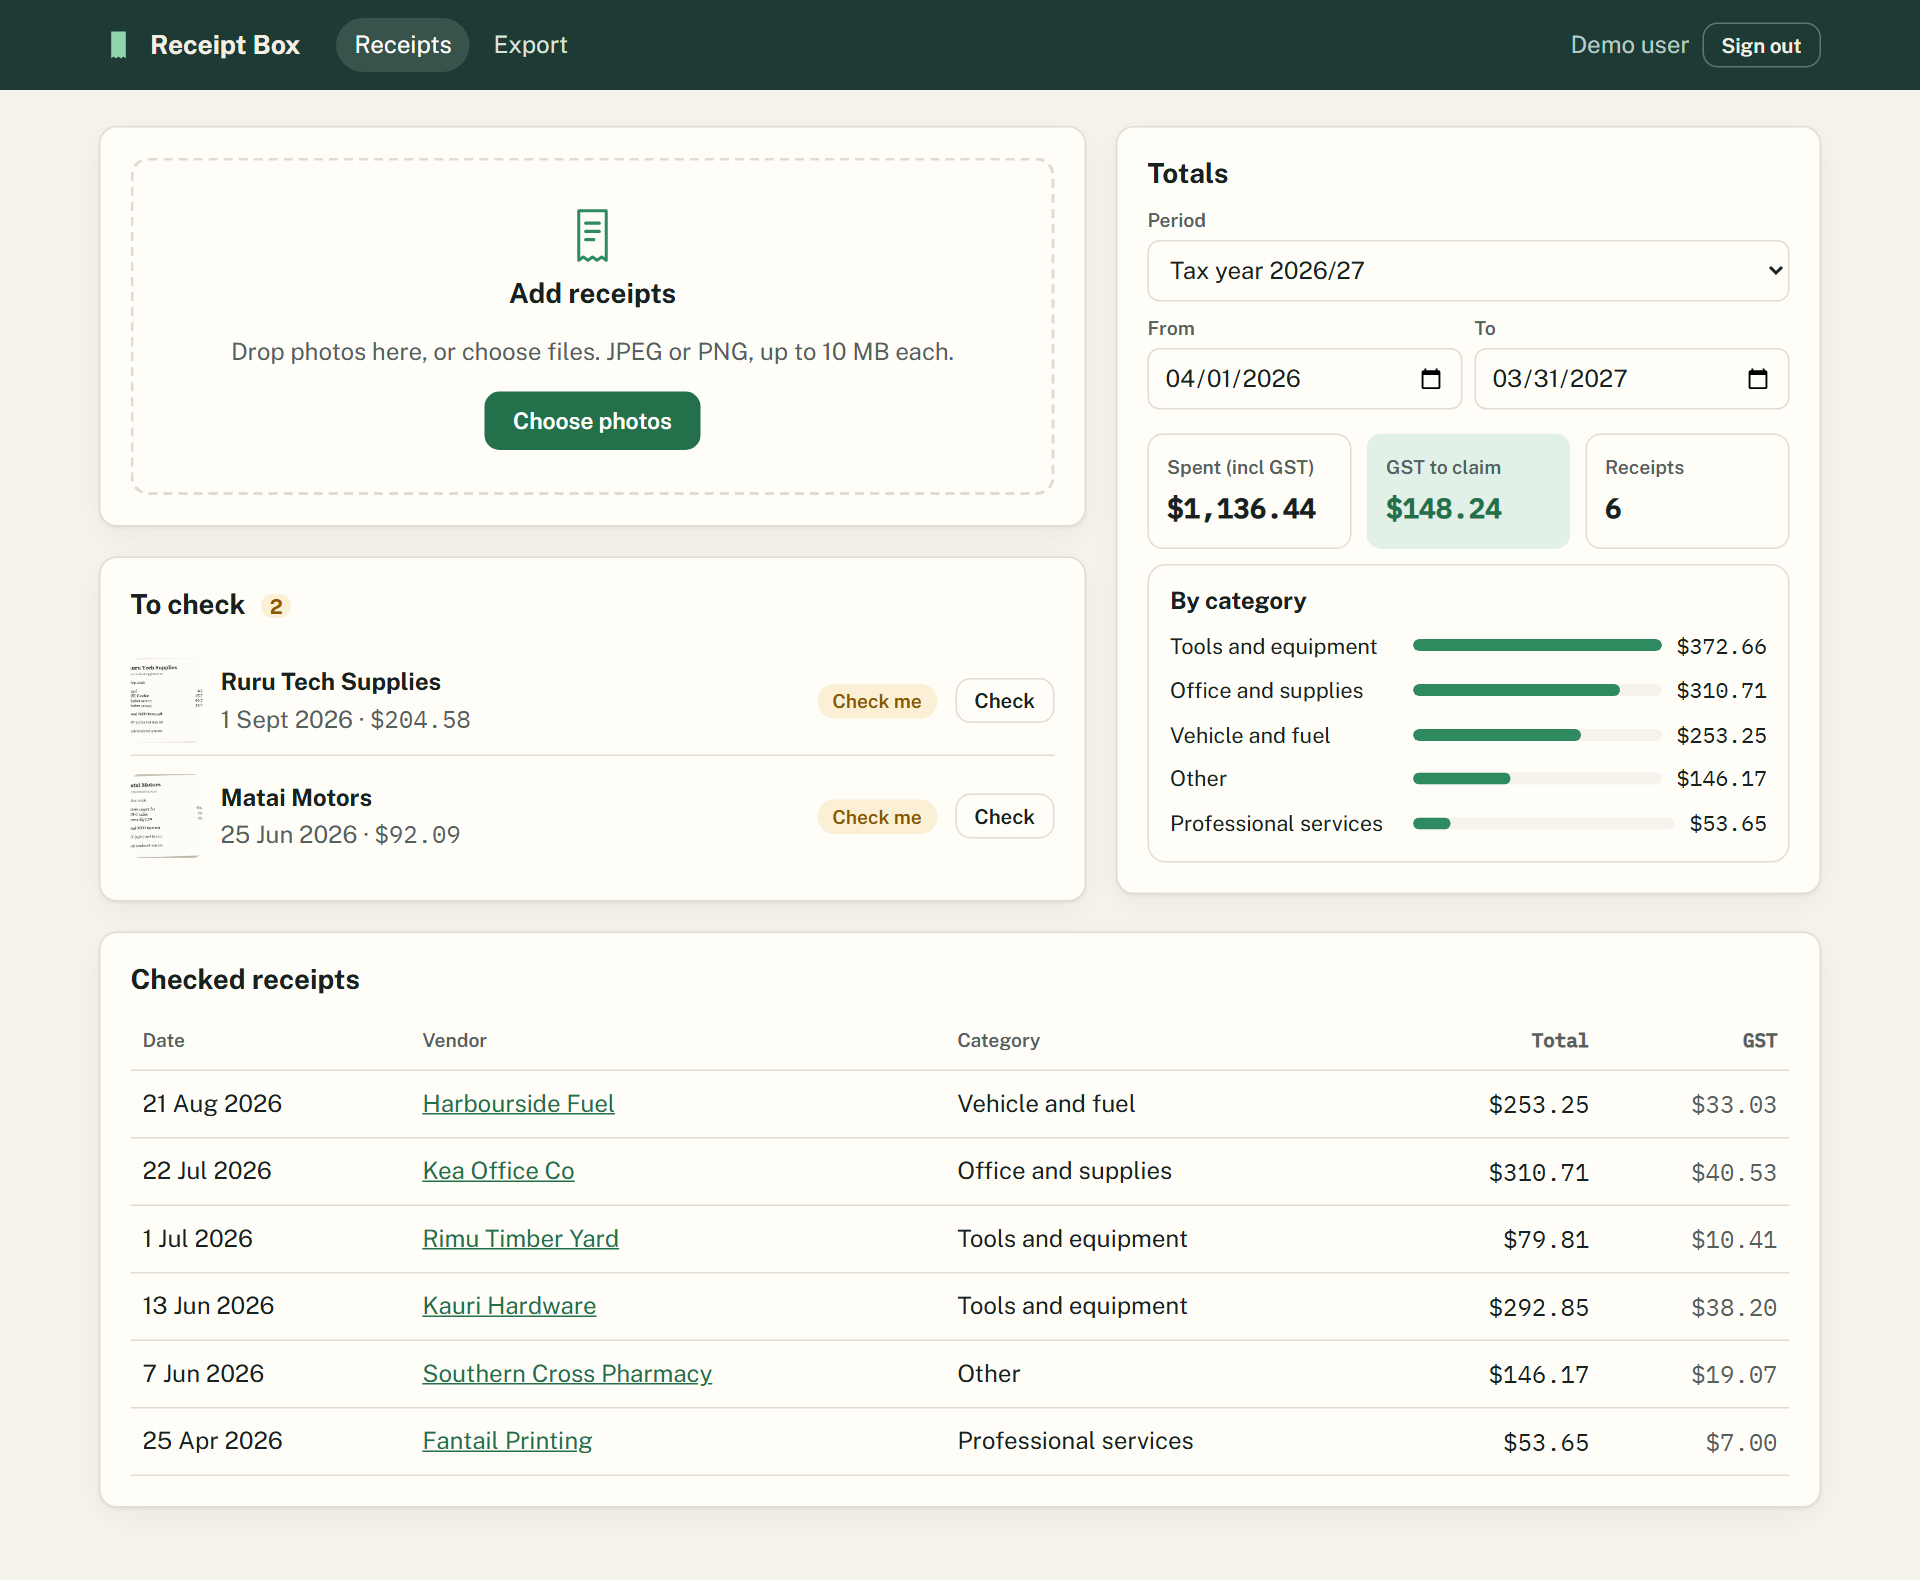
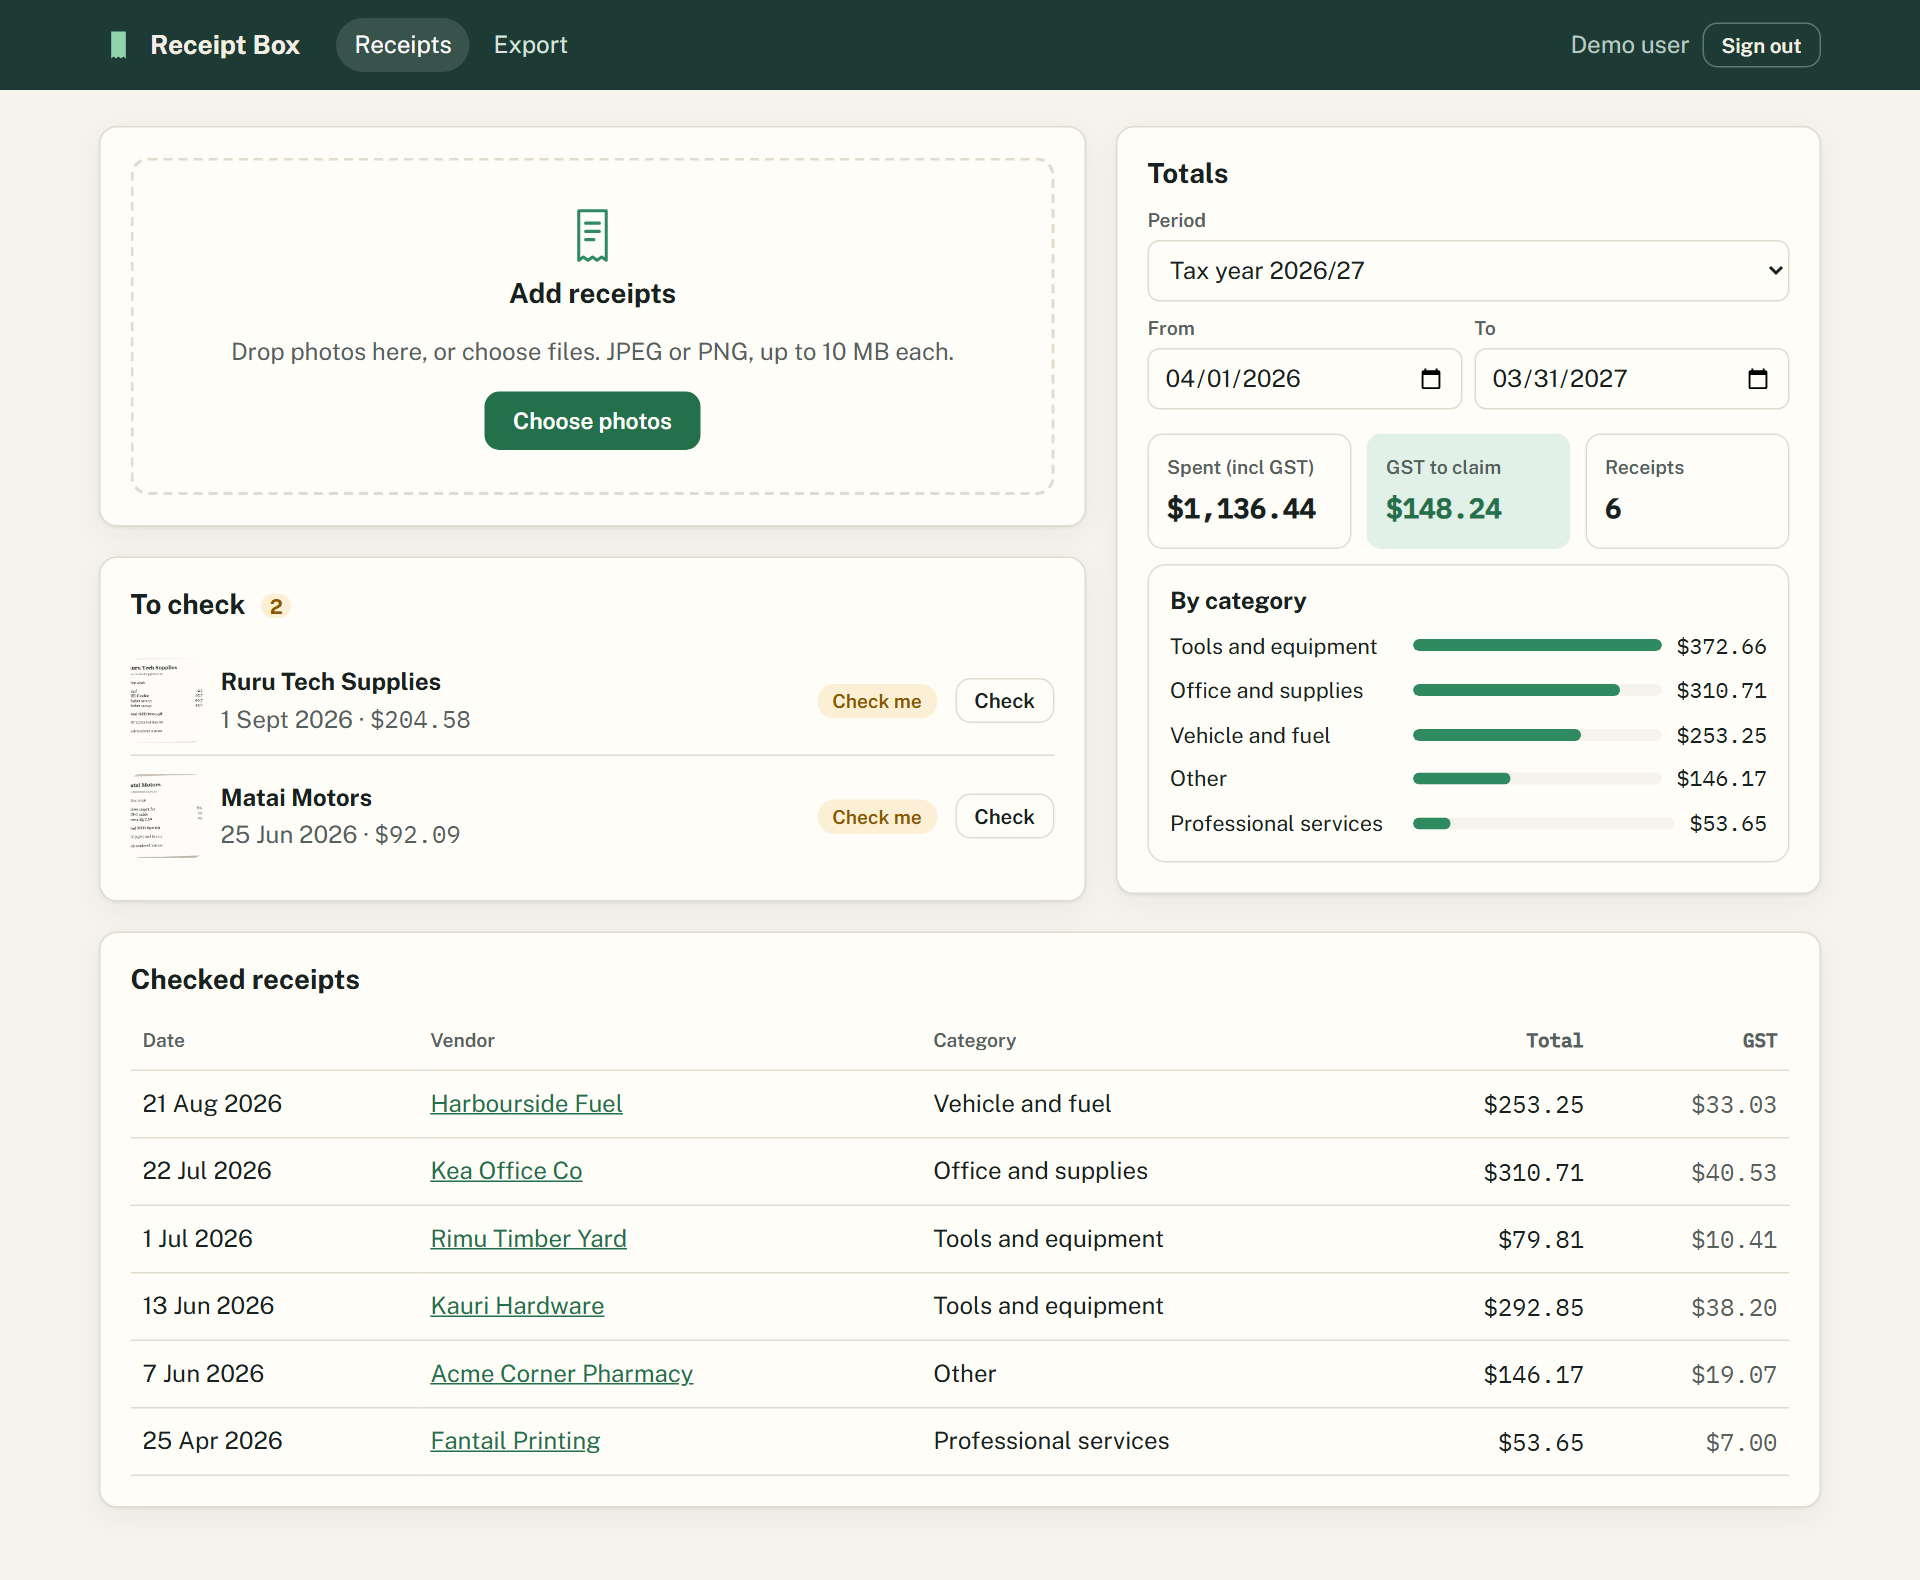
Demo data: invented Acme Corner Pharmacy in the evaluation receipts and screenshots
The three pharmacy receipts (05, 15, 25) are regenerated from the same seed so the
image text matches truth.json; the other 27 images are unchanged. The Tesseract
evaluation gives the same scores on the new set.

diff --git a/scripts/screenshots.ts b/scripts/screenshots.ts
@@ -13,7 +13,7 @@ const CATEGORY: Record<string, string> = {
   "Kauri Hardware": "Tools and equipment",
   "Harbourside Fuel": "Vehicle and fuel",
   "Pōhutukawa Café": "Meals and entertainment",
-  "Southern Cross Pharmacy": "Other",
+  "Acme Corner Pharmacy": "Other",
   "Ruru Tech Supplies": "Office and supplies",
   "Matai Motors": "Vehicle and fuel",
   "Kea Office Co": "Office and supplies",

diff --git a/services/api/eval/make-receipts.ts b/services/api/eval/make-receipts.ts
@@ -20,7 +20,7 @@ const VENDORS = [
   "Harbourside Fuel",
   "Tūī Stationery",
   "Pōhutukawa Café",
-  "Southern Cross Pharmacy",
+  "Acme Corner Pharmacy",
   "Ruru Tech Supplies",
   "Matai Motors",
   "Kea Office Co",
